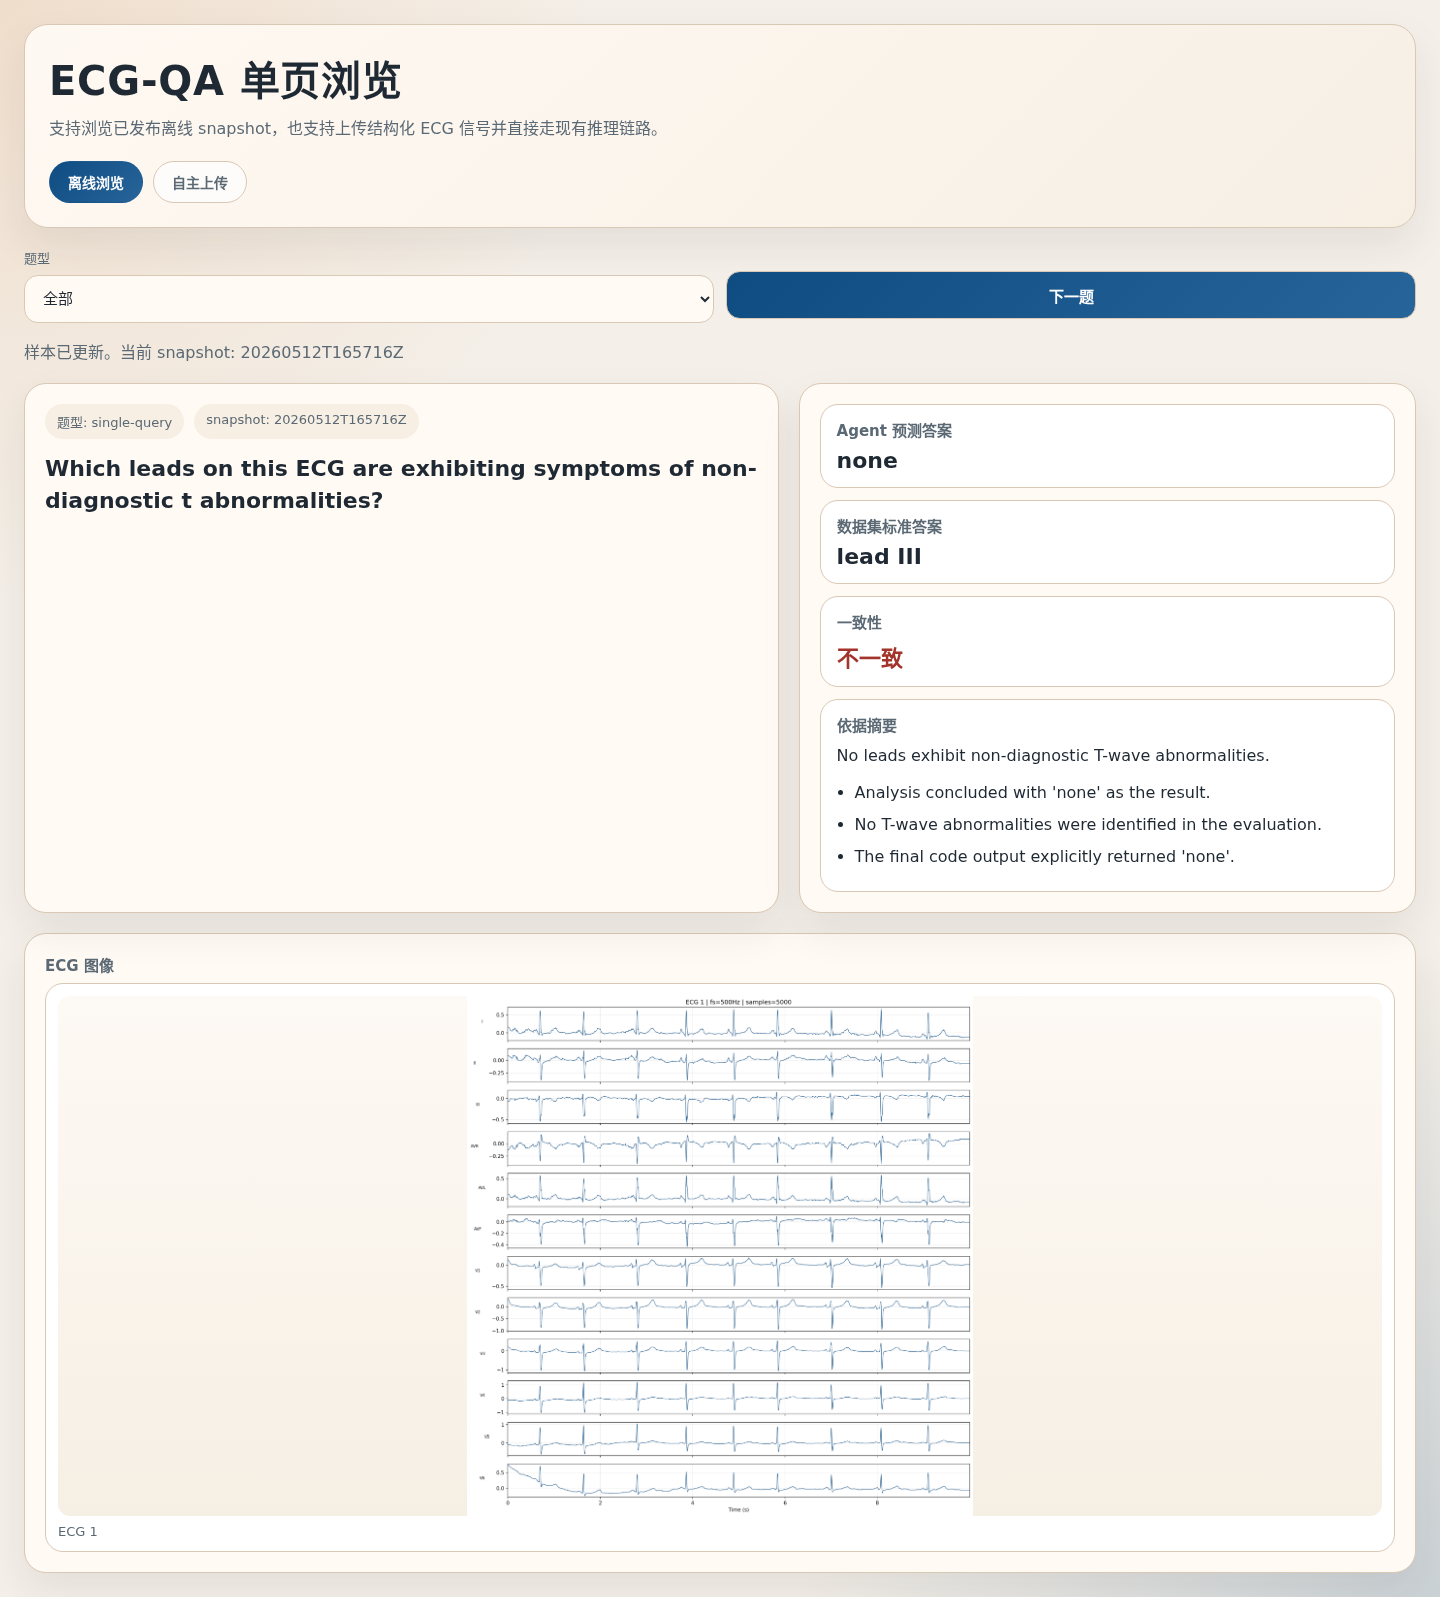
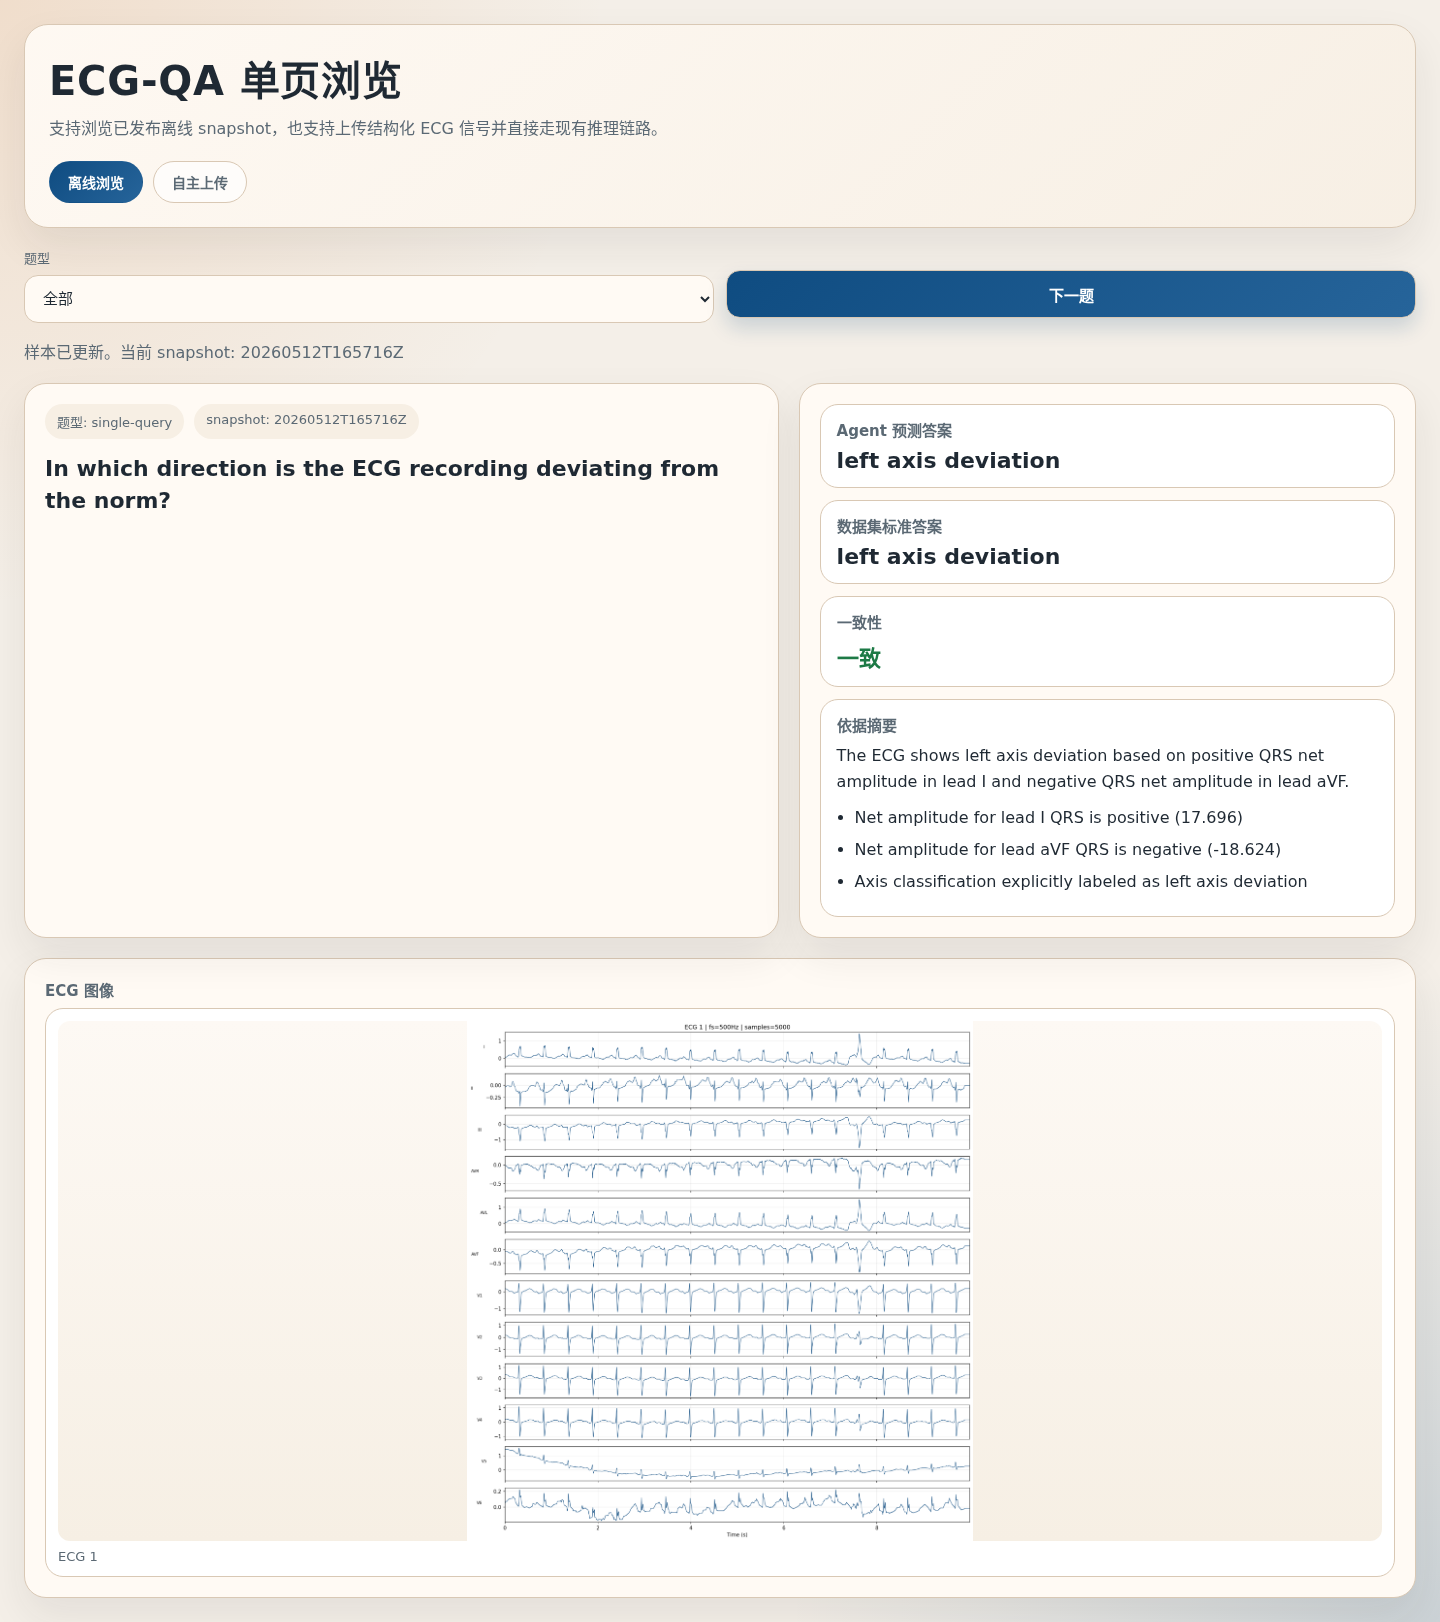
更新示例

diff --git a/ReadMe.md b/ReadMe.md
@@ -38,13 +38,9 @@ The web interface has two workflows:
 - `Analyze ECG`: upload an ECG CSV, enter a question, and review the answer with supporting evidence.
 - `Browse snapshots`: inspect published demo results, including ECG images, model answers, reference answers, and evidence summaries.
 
-Analyze ECG:
+Correct result example:
 
-![agentECG 自主上传页面](docs/images/agentecg-web-upload.png)
-
-Browse snapshots:
-
-![agentECG 离线浏览页面](docs/images/agentecg-web-browse.png)
+![agentECG 正确执行示例](docs/images/agentecg-web-browse.png)
 
 To publish demo results for browsing:
 